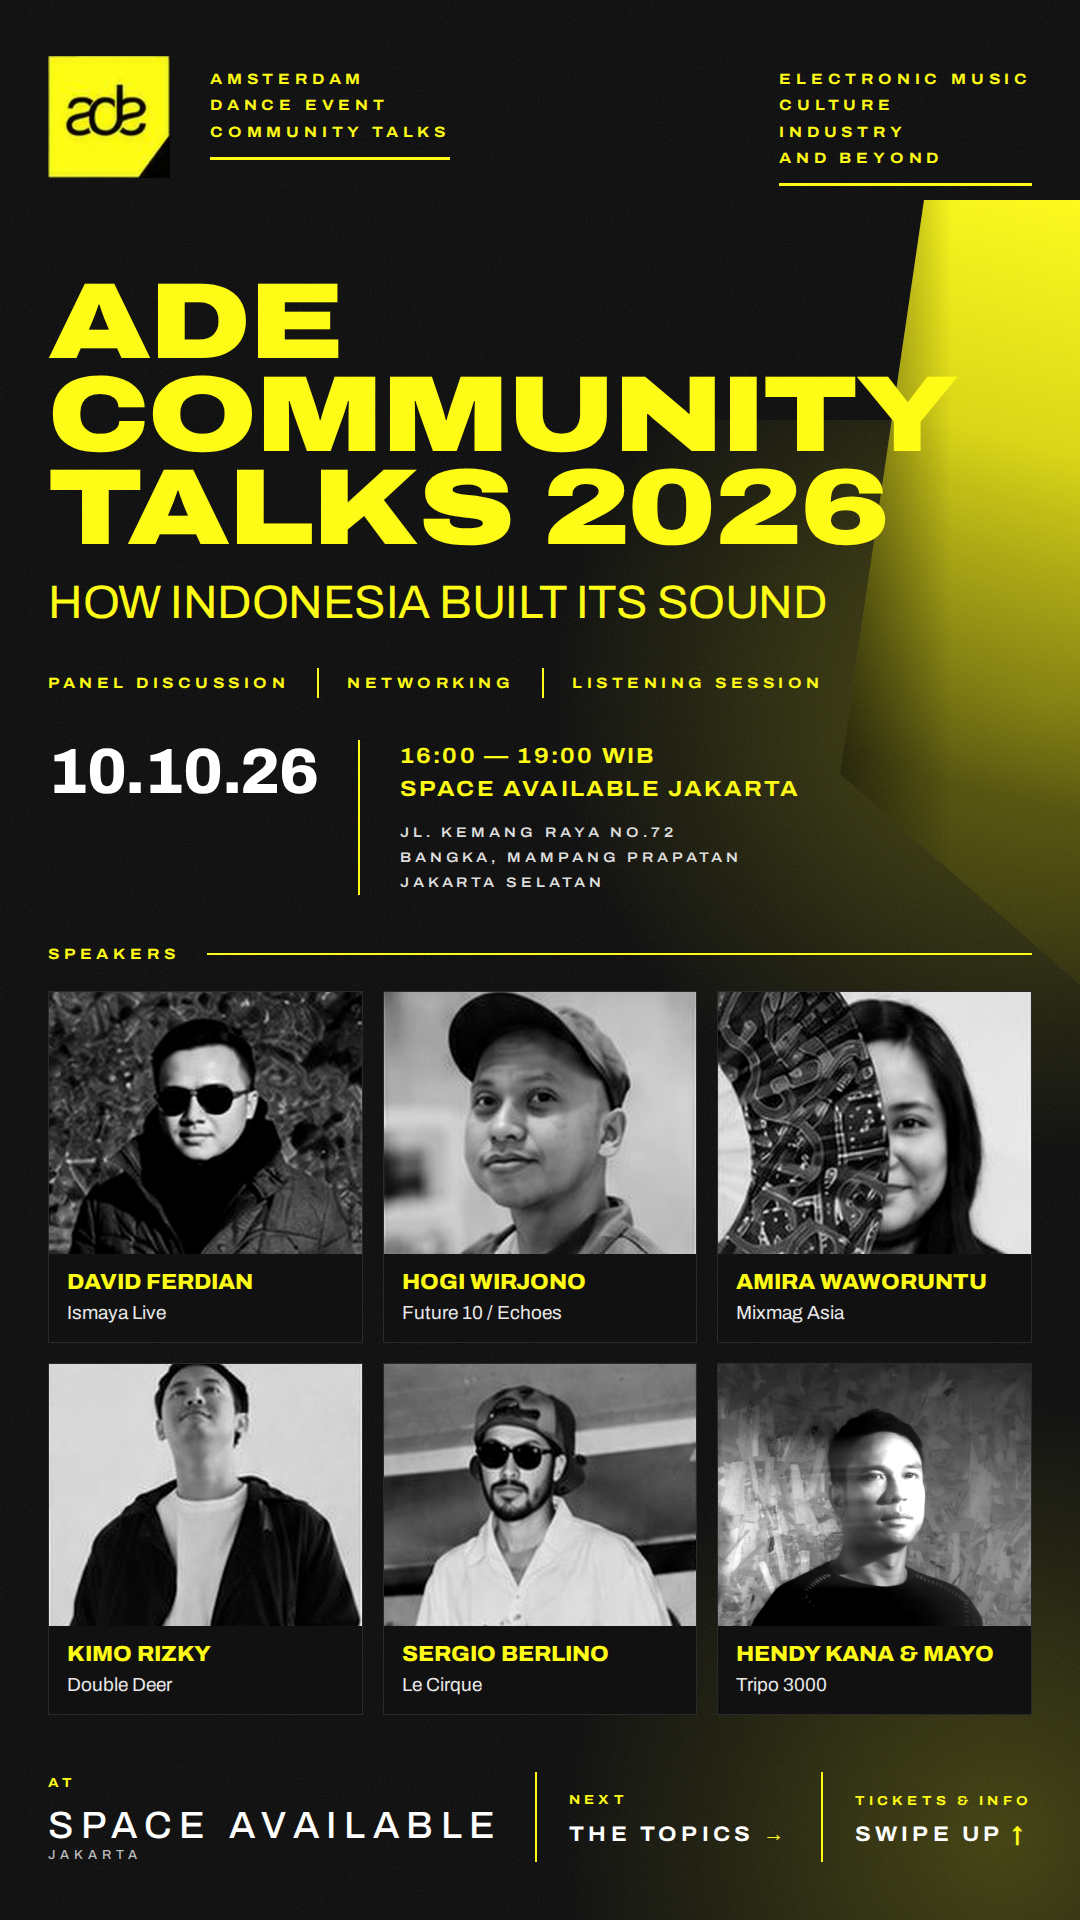
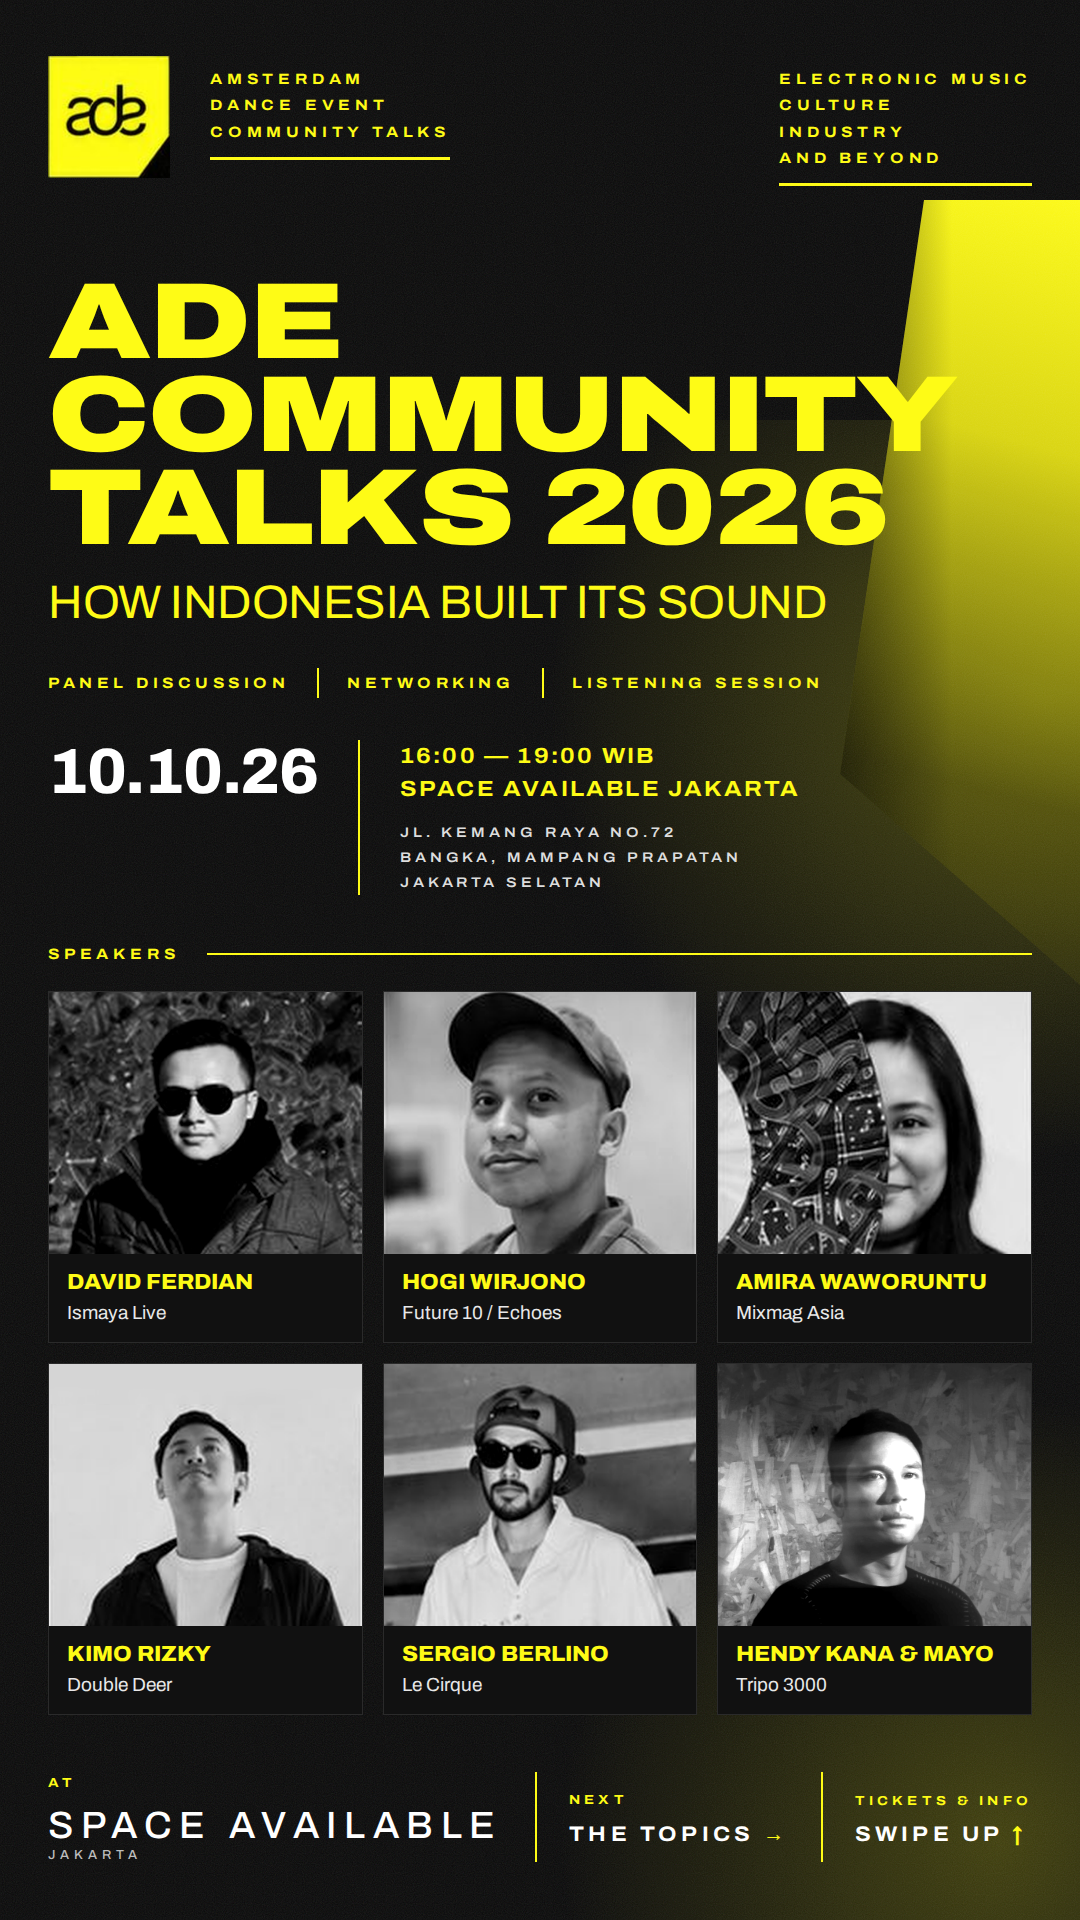
Fix Kimo Rizky photo crop on ADE lineup
Claude-Session: https://claude.ai/code/session_01Sc5gF2HRFqjLpMQDrx7aqZ

Changed region(s): [[0.0611, 0.6875, 0.3361, 0.8438]]

diff --git a/events/ade-community-talks-2026/01-lineup-nologo.html b/events/ade-community-talks-2026/01-lineup-nologo.html
@@ -30,7 +30,7 @@
     <div class="card"><div class="ph"><img src="img/david.png"></div><div class="cap"><div class="nm">David Ferdian</div><div class="org">Ismaya Live</div></div></div>
     <div class="card"><div class="ph"><img src="img/hogi.png"></div><div class="cap"><div class="nm">Hogi Wirjono</div><div class="org">Future 10 / Echoes</div></div></div>
     <div class="card"><div class="ph"><img src="img/amira.png"></div><div class="cap"><div class="nm">Amira Waworuntu</div><div class="org">Mixmag Asia</div></div></div>
-    <div class="card"><div class="ph"><img src="img/kimo.png"></div><div class="cap"><div class="nm">Kimo Rizky</div><div class="org">Double Deer</div></div></div>
+    <div class="card"><div class="ph"><img src="img/kimo.png" style="object-position:top"></div><div class="cap"><div class="nm">Kimo Rizky</div><div class="org">Double Deer</div></div></div>
     <div class="card"><div class="ph"><img src="img/sergio.png"></div><div class="cap"><div class="nm">Sergio Berlino</div><div class="org">Le Cirque</div></div></div>
     <div class="card"><div class="ph"><img src="img/tripo3000.jpg"></div><div class="cap"><div class="nm">Hendy Kana &amp; Mayo</div><div class="org">Tripo 3000</div></div></div>
   </div>

diff --git a/events/ade-community-talks-2026/01-lineup.html b/events/ade-community-talks-2026/01-lineup.html
@@ -30,7 +30,7 @@
     <div class="card"><div class="ph"><img src="img/david.png"></div><div class="cap"><div class="nm">David Ferdian</div><div class="org">Ismaya Live</div></div></div>
     <div class="card"><div class="ph"><img src="img/hogi.png"></div><div class="cap"><div class="nm">Hogi Wirjono</div><div class="org">Future 10 / Echoes</div></div></div>
     <div class="card"><div class="ph"><img src="img/amira.png"></div><div class="cap"><div class="nm">Amira Waworuntu</div><div class="org">Mixmag Asia</div></div></div>
-    <div class="card"><div class="ph"><img src="img/kimo.png"></div><div class="cap"><div class="nm">Kimo Rizky</div><div class="org">Double Deer</div></div></div>
+    <div class="card"><div class="ph"><img src="img/kimo.png" style="object-position:top"></div><div class="cap"><div class="nm">Kimo Rizky</div><div class="org">Double Deer</div></div></div>
     <div class="card"><div class="ph"><img src="img/sergio.png"></div><div class="cap"><div class="nm">Sergio Berlino</div><div class="org">Le Cirque</div></div></div>
     <div class="card"><div class="ph"><img src="img/tripo3000.jpg"></div><div class="cap"><div class="nm">Hendy Kana &amp; Mayo</div><div class="org">Tripo 3000</div></div></div>
   </div>
